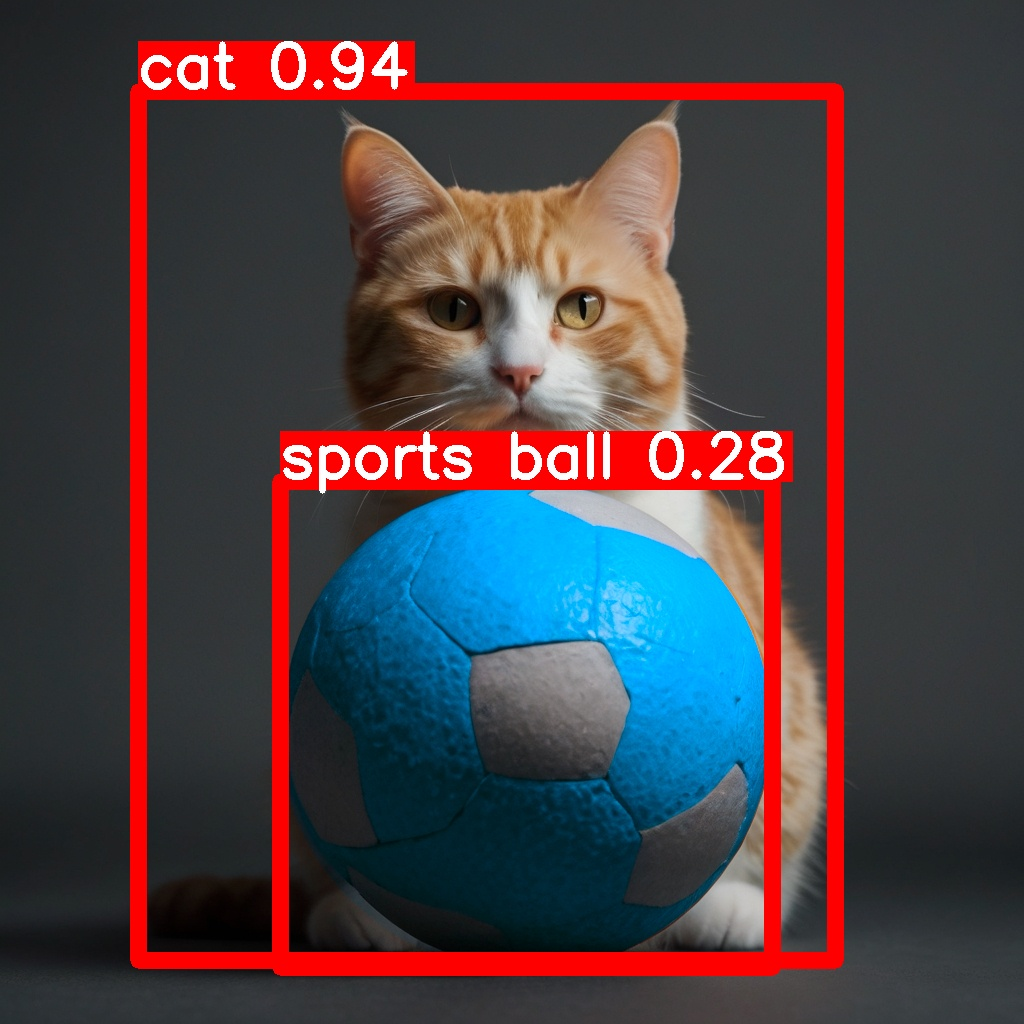
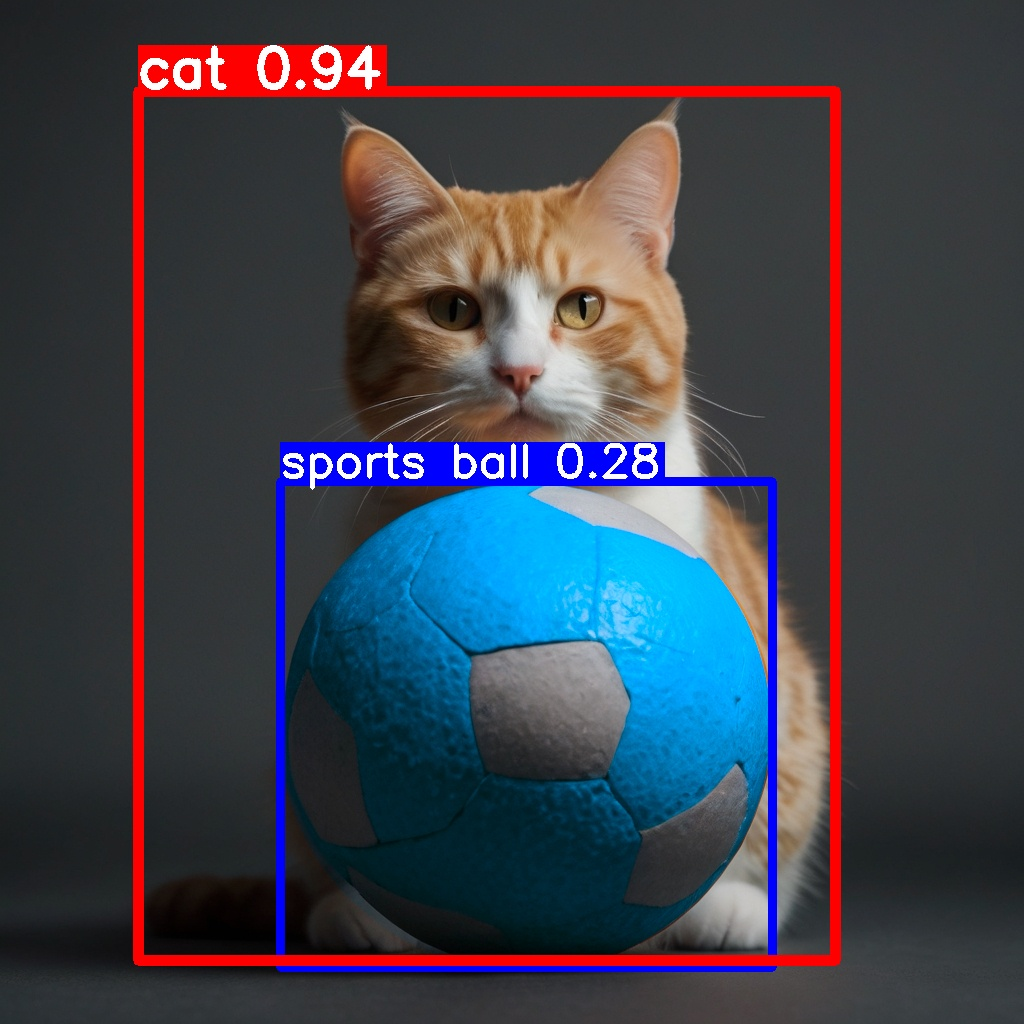
updated images

Changed region(s): [[0.125, 0.0312, 0.8438, 0.9688]]

diff --git a/Marco 2025/YOLO/assets/code/Detect_on_one_img.py b/Marco 2025/YOLO/assets/code/Detect_on_one_img.py
@@ -12,7 +12,7 @@ def get_filename_and_extension(image_path):
 model = YOLO("yolo11x.pt")
 
 # Caminho da imagem a ser processada
-image_path = r"Marco 2025\YOLO\assets\img\cats\image7.jpg"  # Substitua pelo caminho da imagem
+image_path = r"Marco 2025\YOLO\assets\img\cats\image7.jpg"  # Substitua pelo caminho correto
 
 # Obtém o nome do arquivo, extensão e diretório
 filename, extension, directory = get_filename_and_extension(image_path)
@@ -33,25 +33,47 @@ results = model(img)
 annotated_img = img.copy()
 
 # Percorre os resultados
+max_confidence = 0
+best_box = None
+best_label = ""
+
 for result in results:
-    # Obtém as detecções
     boxes = result.boxes.xyxy  # Coordenadas das bounding boxes
     confs = result.boxes.conf  # Confiança das detecções
     cls = result.boxes.cls  # Classes detectadas
     
     for i in range(len(boxes)):
         x1, y1, x2, y2 = map(int, boxes[i])  # Converte para inteiros
-        label = f"{model.names[int(cls[i])]} {confs[i]:.2f}"  # Nome da classe e confiança
+        confidence = float(confs[i])
+        label = f"{model.names[int(cls[i])]} {confidence:.2f}"  # Nome da classe e confiança
 
-        # Desenha a bounding box com espessura maior
-        cv2.rectangle(annotated_img, (x1, y1), (x2, y2), (0, 0, 255), thickness=15)
+        # Se for a melhor detecção, armazena
+        if confidence > max_confidence:
+            max_confidence = confidence
+            best_box = (x1, y1, x2, y2)
+            best_label = label
+        else:
+            # Desenha bounding boxes azuis para as demais detecções
+            cv2.rectangle(annotated_img, (x1, y1), (x2, y2), (255, 0, 0), thickness=8)  # Azul
 
-        # Adiciona a label com fonte maior
-        font_scale = 2.0
-        font_thickness = 6
-        (w, h), _ = cv2.getTextSize(label, cv2.FONT_HERSHEY_SIMPLEX, font_scale, font_thickness)
-        cv2.rectangle(annotated_img, (x1, y1 - h - 5), (x1 + w, y1), (0, 0, 255), -1)  # Fundo da label
-        cv2.putText(annotated_img, label, (x1, y1 - 5), cv2.FONT_HERSHEY_SIMPLEX, font_scale, (255, 255, 255), font_thickness)
+            # Adiciona a label
+            font_scale = 1.5
+            font_thickness = 4
+            (w, h), _ = cv2.getTextSize(label, cv2.FONT_HERSHEY_SIMPLEX, font_scale, font_thickness)
+            cv2.rectangle(annotated_img, (x1, y1 - h - 5), (x1 + w, y1), (255, 0, 0), -1)  # Fundo azul
+            cv2.putText(annotated_img, label, (x1, y1 - 5), cv2.FONT_HERSHEY_SIMPLEX, font_scale, (255, 255, 255), font_thickness)
+
+# Desenha a melhor bounding box por último (vermelho para destaque)
+if best_box:
+    x1, y1, x2, y2 = best_box
+    cv2.rectangle(annotated_img, (x1, y1), (x2, y2), (0, 0, 255), thickness=10)  # Vermelho
+
+    # Adiciona a label com fundo vermelho
+    font_scale = 1.8
+    font_thickness = 5
+    (w, h), _ = cv2.getTextSize(best_label, cv2.FONT_HERSHEY_SIMPLEX, font_scale, font_thickness)
+    cv2.rectangle(annotated_img, (x1, y1 - h - 5), (x1 + w, y1), (0, 0, 255), -1)  # Fundo vermelho
+    cv2.putText(annotated_img, best_label, (x1, y1 - 5), cv2.FONT_HERSHEY_SIMPLEX, font_scale, (255, 255, 255), font_thickness)
 
 # Salva a imagem com as detecções
 output_path = f"{directory}{filename}_detect{extension}"
